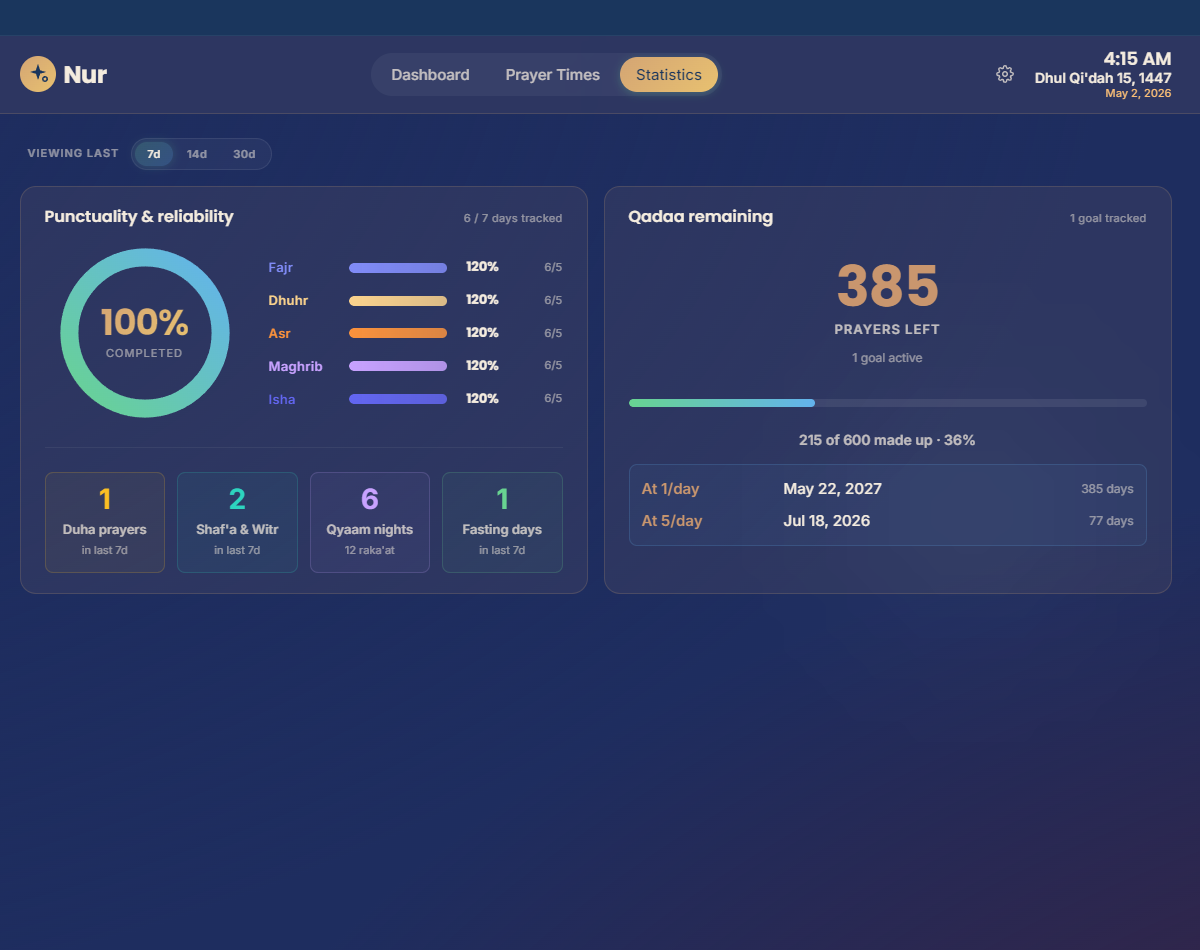
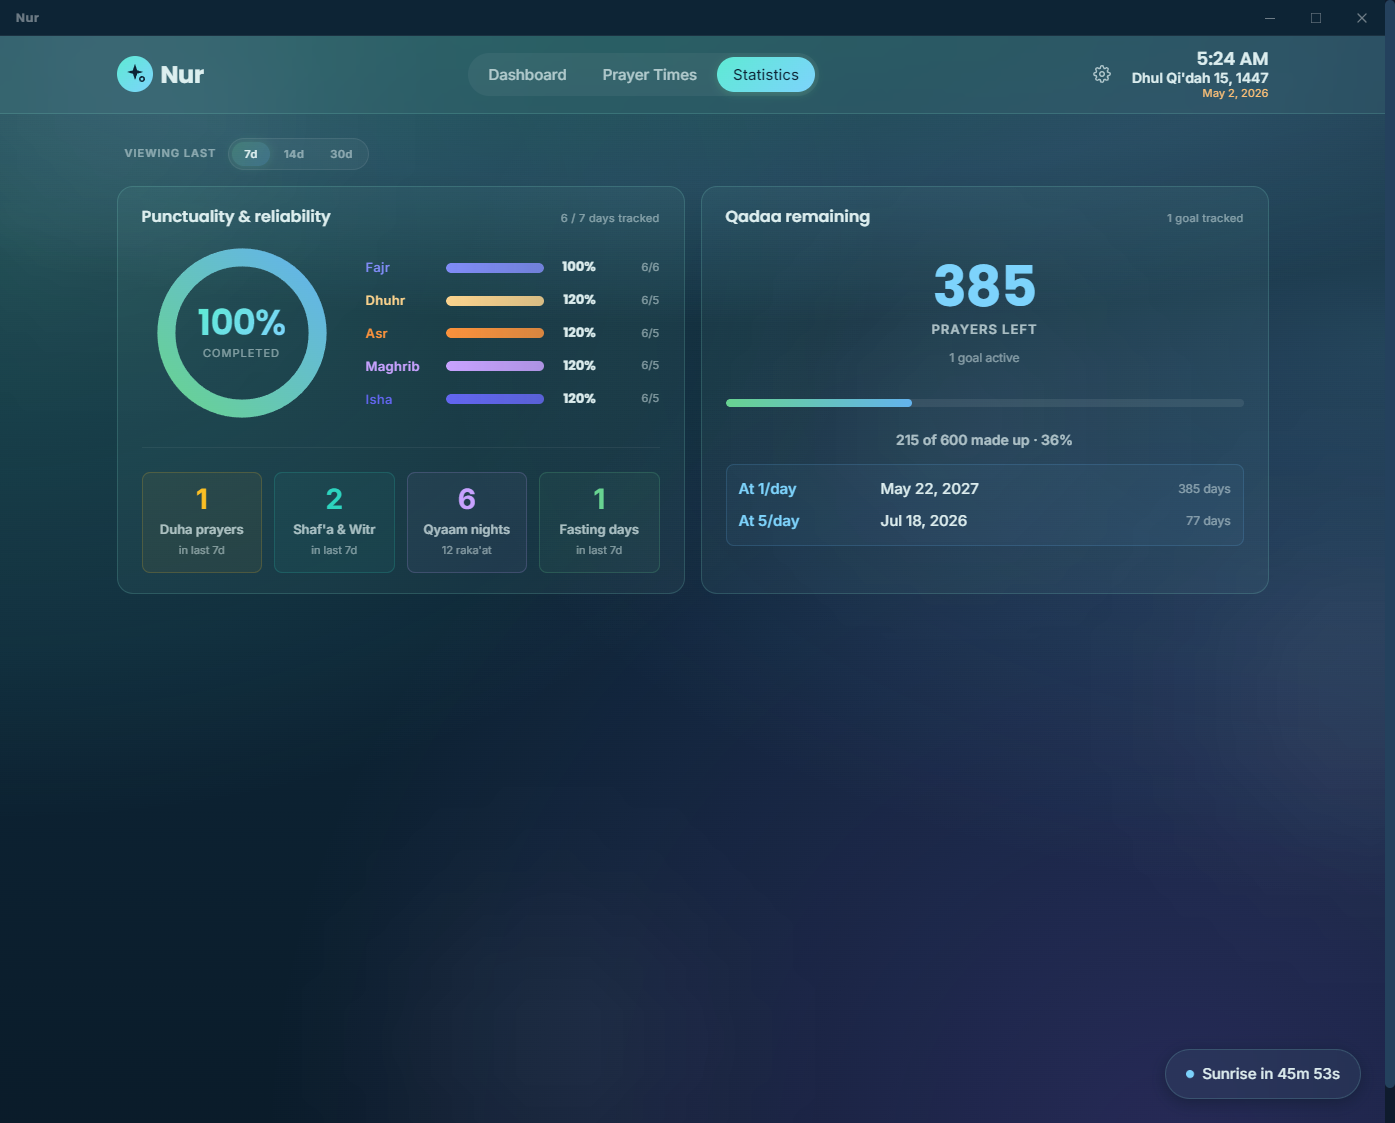
All 9 screenshots (3 themes × 3 pages), matched 1395x1123

diff --git a/index.html b/index.html
@@ -321,6 +321,18 @@
                 <img src="screenshots/teal-stats.png" alt="Statistics — Teal" loading="lazy">
                 <div class="ss-label">Statistics · Teal</div>
             </div>
+            <div class="ss-card" data-src="screenshots/ocean-prayer-times.png" data-label="Prayer Times · Ocean">
+                <img src="screenshots/ocean-prayer-times.png" alt="Prayer Times — Ocean" loading="lazy">
+                <div class="ss-label">Prayer Times · Ocean</div>
+            </div>
+            <div class="ss-card" data-src="screenshots/warm-stats.png" data-label="Statistics · Warm">
+                <img src="screenshots/warm-stats.png" alt="Statistics — Warm" loading="lazy">
+                <div class="ss-label">Statistics · Warm</div>
+            </div>
+            <div class="ss-card" data-src="screenshots/teal-prayer-times.png" data-label="Prayer Times · Teal">
+                <img src="screenshots/teal-prayer-times.png" alt="Prayer Times — Teal" loading="lazy">
+                <div class="ss-label">Prayer Times · Teal</div>
+            </div>
         </div>
     </section>
 
